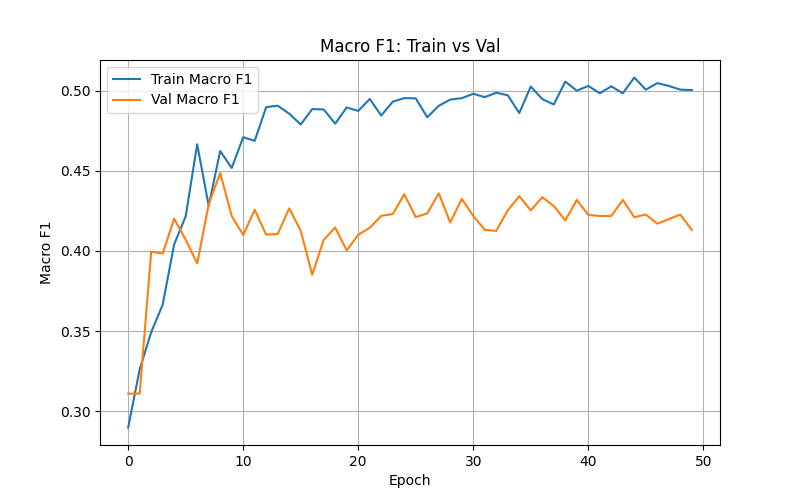
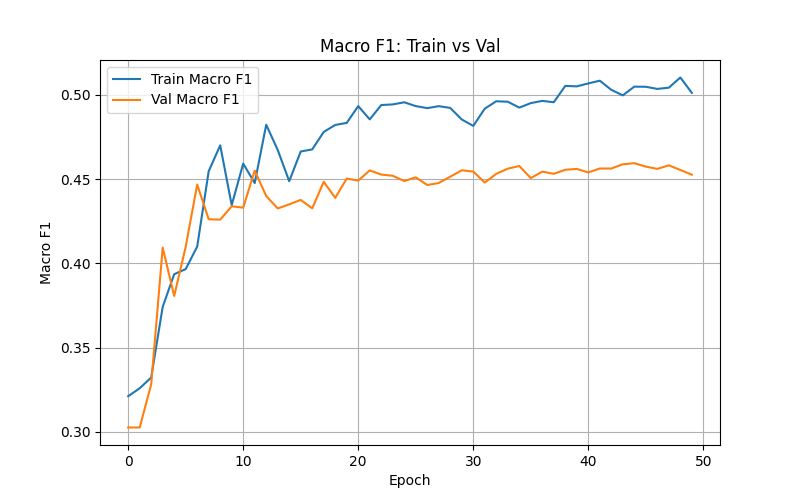
fix: change batch size, weight decay

diff --git a/train/train_cnn_lstm.py b/train/train_cnn_lstm.py
@@ -33,10 +33,10 @@ PER_STEP_FEATURE = len(fe.FEATURE_COLS)
 FEATURE_COLUMN_PATTERN = re.compile(r"^feature(\d+)_t(\d+)$")
 
 # 학습 전용 하이퍼파라미터
-BATCH_SIZE = 32
+BATCH_SIZE = 64
 EPOCHS = 50
 LEARNING_RATE = 3e-4
-WEIGHT_DECAY = 1e-4
+WEIGHT_DECAY = 3e-4
 SCHEDULER_STEP_SIZE = 10
 SCHEDULER_GAMMA = 0.5
 VAL_RATIO = 0.2